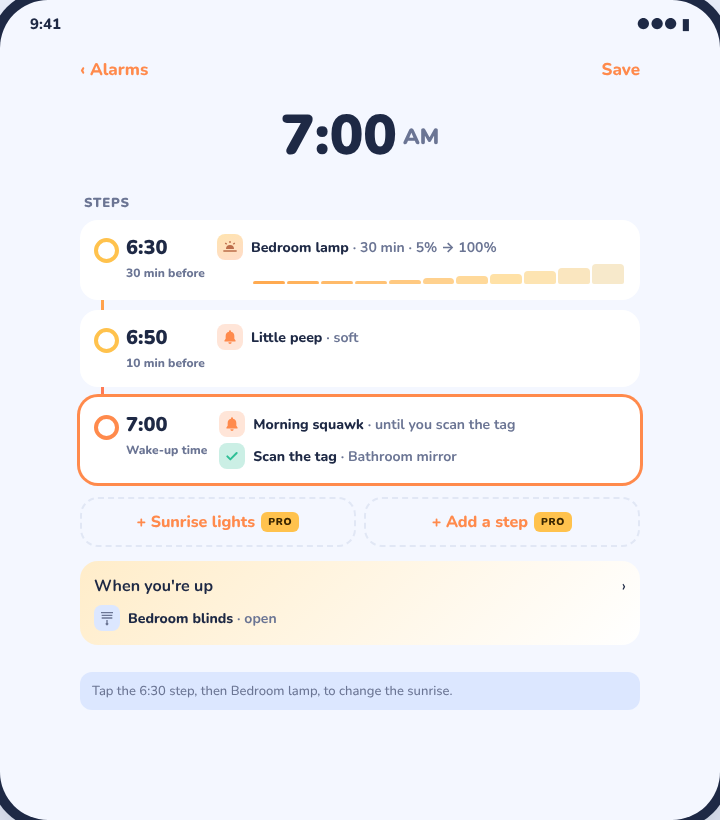
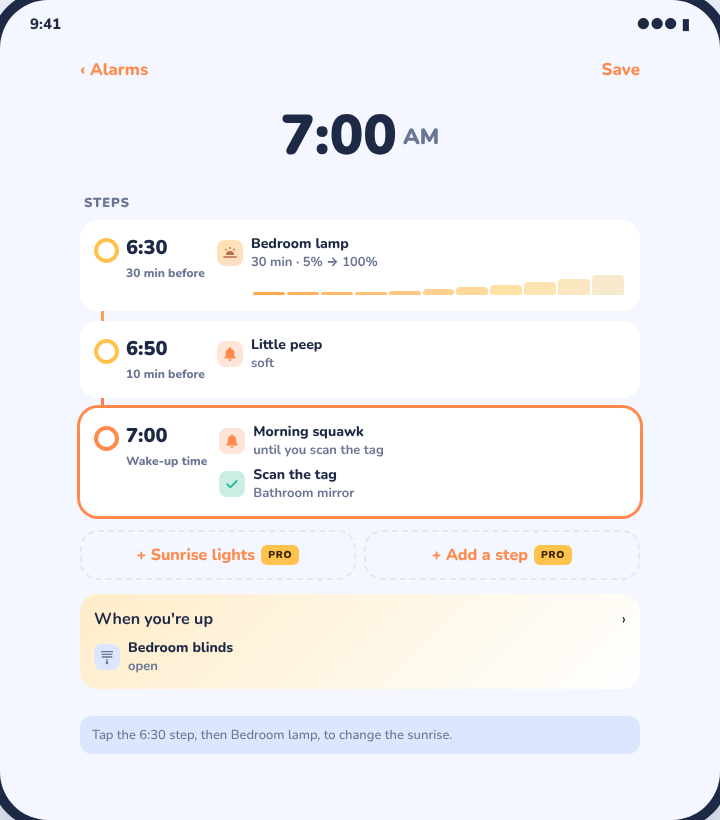
Squawk: details under names, "Add an action", no switches in Home control copy
Claude-Session: https://claude.ai/code/session_01GG78N916RzCyFKXcbiHE88

diff --git a/apps/squawk/features/sunrise-lights/design/mockups/sunrise.html b/apps/squawk/features/sunrise-lights/design/mockups/sunrise.html
@@ -239,7 +239,7 @@ body{background:var(--stage);color:var(--ink);font-family:var(--font);
     <button data-go="edit">Steps with Sunrise lights</button>
     <button data-go="sunrise">Sunrise lights</button>
     <button data-go="stepdetail">A step</button>
-    <button data-go="addthing">Add something</button>
+    <button data-go="addthing">Add an action</button>
     <small>Guided new alarm</small>
     <button data-go="g3">3 · Lights</button>
     <small>Home screen</small>
@@ -274,7 +274,7 @@ const ICON={
   check:'<svg viewBox="0 0 24 24" fill="none" stroke="currentColor" stroke-width="3" stroke-linecap="round" stroke-linejoin="round"><path d="M5 12.5l4.5 4.5L19 7.5"/></svg>'};
 const ic=k=>`<span class="ic ${k}" aria-hidden="true">${ICON[k]}</span>`;
 function srDetail(sr){return `${sr.len} min · ${sr.b0}% → ${sr.b1}%`}
-function thing(t){return `<div class="thing">${ic(t.k)}<div style="min-width:0">${t.name}${t.v?` <span>· ${t.v}</span>`:""}</div></div>`}
+function thing(t){return `<div class="thing">${ic(t.k)}<div style="min-width:0">${t.name}${t.v?`<span style="display:block;font-size:13px">${t.v}</span>`:""}</div></div>`}
 function steps(){const st=[{off:0,wake:true,things:[{k:"ring",name:"Morning squawk",v:"until you scan the tag"}]},{off:-10,things:[{k:"ring",name:"Little peep",v:"soft"}]}];
   if(S.sr.on){const ex=st.find(x=>x.off===S.sr.off);const t={k:"sunrise",name:"Bedroom lamp",v:srDetail(S.sr),sr:true};ex?ex.things.unshift(t):st.push({off:S.sr.off,things:[t]})}
   return st.sort((a,b)=>a.off-b.off)}
@@ -373,13 +373,13 @@ stepdetail:()=>{const st=steps().find(s=>s.off===sel)||steps()[0];return `${stat
   <div class="card stepper">${st.wake?`<div class="val" style="flex:1"><b>${at(0)}</b><span class="sub">Wake-up time</span></div>`:`<button data-act="off-" aria-label="Five minutes earlier">−</button><div class="val"><b>${at(st.off)}</b><span class="sub">${offLabel(st.off)}</span></div><button data-act="off+" aria-label="Five minutes later">+</button>`}</div>
   <div class="sec">What happens</div>
   <div class="card list">${st.things.map(t=>`<div class="row">${thing(t)}<span class="spacer"></span>${t.sr?`<button class="back" style="font-size:15px" data-act="change">Change</button>`:""}</div>${t.sr?rampBars(S.sr)+`<div class="rampcap"><span>starts ${at(S.sr.off)}</span><span>bright by ${at(S.sr.off+S.sr.len)}</span></div>`:""}`).join("")}</div>
-  <button class="add" data-go="addthing">+ Add something</button>
+  <button class="add" data-go="addthing">+ Add an action</button>
   ${st.things.some(t=>t.sr)?`<p class="note2">Sunrise lights start at this step's time. Moving the step moves the whole sunrise.</p>`:""}
   </div></div>`},
 
 addthing:()=>`${screens.stepdetail()}<div class="scrim" data-go="stepdetail"></div><div class="sheet" style="text-align:left;gap:0" role="dialog" aria-label="Add to this step">
   <b class="h2" style="margin-bottom:6px">Add to this step</b>
-  ${[["ring","Ring"],["sunrise","Sunrise lights"],["scene","Home scene"],["house","Home control","Lights, plugs, switches and blinds"]].map(([k,n,sub])=>`<button class="opt" ${k==="sunrise"?'data-act="addsr"':""}>${ic(k)}<b>${n}${sub?`<span class="sub" style="display:block;font-size:13px;font-weight:700">${sub}</span>`:""}</b>${k==="ring"?"":`<span class="pro">PRO</span>`}<span>›</span></button>`).join("")}</div>`,
+  ${[["ring","Ring"],["sunrise","Sunrise lights"],["scene","Home scene"],["house","Home control","Lights, plugs and blinds"]].map(([k,n,sub])=>`<button class="opt" ${k==="sunrise"?'data-act="addsr"':""}>${ic(k)}<b>${n}${sub?`<span class="sub" style="display:block;font-size:13px;font-weight:700">${sub}</span>`:""}</b>${k==="ring"?"":`<span class="pro">PRO</span>`}<span>›</span></button>`).join("")}</div>`,
 
 g3:()=>`${status()}<div class="screen">
   <div class="gtop"><button class="back">‹ Back</button><div class="gdots"><i class="done"></i><i class="done"></i><i class="on"></i><i></i><i></i></div><button class="skipall">All options</button></div>

diff --git a/apps/squawk/ios/Squawk/Screens/StepsViews.swift b/apps/squawk/ios/Squawk/Screens/StepsViews.swift
@@ -7,7 +7,7 @@ struct ThingIcon: View {
     enum Kind {
         case ring, check
         case home(HomeAction.Kind)
-        /// "Home control": lights, plugs, switches and blinds together.
+        /// "Home control": lights, plugs and blinds together.
         case devices
     }
 
@@ -62,15 +62,21 @@ struct ThingRow: View {
     var name: String
     var detail: String = ""
 
+    // The detail sits under the name, so long ones like "30 min · 5% → 100%" fit.
     var body: some View {
-        HStack(alignment: .firstTextBaseline, spacing: 8) {
+        HStack(alignment: .center, spacing: 8) {
             ThingIcon(kind: kind)
-                .alignmentGuide(.firstTextBaseline) { $0[VerticalAlignment.center] + 5 }
-            Text("\(Text(name).bold())\(Text(detail.isEmpty ? "" : " · \(detail)").foregroundStyle(Theme.muted))")
-                .font(.system(.subheadline, design: .rounded))
-                .fixedSize(horizontal: false, vertical: true)
+            VStack(alignment: .leading, spacing: 1) {
+                Text(name).bold()
+                if !detail.isEmpty {
+                    Text(detail).foregroundStyle(Theme.muted)
+                }
+            }
+            .font(.system(.subheadline, design: .rounded))
+            .fixedSize(horizontal: false, vertical: true)
             Spacer(minLength: 0)
         }
+        .accessibilityElement(children: .combine)
     }
 }
 

diff --git a/apps/squawk/ios/Squawk/Screens/StepsEditing.swift b/apps/squawk/ios/Squawk/Screens/StepsEditing.swift
@@ -226,7 +226,7 @@ struct StepDetailView: View {
                 }
 
                 Button { adding = true } label: {
-                    Text("+ Add something")
+                    Text("+ Add an action")
                         .font(Theme.label)
                         .foregroundStyle(Theme.accent)
                         .frame(maxWidth: .infinity, minHeight: 50)
@@ -339,7 +339,7 @@ struct AddThingSheet: View {
                 row(.home(.sunrise), HomeAction.Kind.sunrise.title, locked: locked)
             }
             row(.home(.scene), HomeAction.Kind.scene.title, locked: locked)
-            row(.devices, "Home control", subtitle: "Lights, plugs, switches and blinds", locked: locked)
+            row(.devices, "Home control", subtitle: "Lights, plugs and blinds", locked: locked)
         }
         .padding(22)
         .presentationDetents([.medium])
@@ -411,7 +411,7 @@ struct UpActionsView: View {
                     }
                 }
                 Button { adding = true } label: {
-                    Text("+ Add something")
+                    Text("+ Add an action")
                         .font(Theme.label)
                         .foregroundStyle(Theme.accent)
                         .frame(maxWidth: .infinity, minHeight: 50)

diff --git a/apps/squawk/ios/SquawkKit/Sources/SquawkKit/Steps.swift b/apps/squawk/ios/SquawkKit/Sources/SquawkKit/Steps.swift
@@ -17,7 +17,7 @@ public struct HomeAction: Codable, Identifiable, Hashable, Sendable {
         /// The kind of device it controls: sunrise lights use lights.
         public var deviceKind: Kind { self == .sunrise ? .light : self }
 
-        /// "Lights", as in the Add something sheet.
+        /// "Lights", as in the Add an action sheet.
         public var title: String {
             switch self {
             case .light: "Lights"

diff --git a/apps/squawk/ios/Squawk/Screens/NewAlarmFlow.swift b/apps/squawk/ios/Squawk/Screens/NewAlarmFlow.swift
@@ -227,7 +227,7 @@ struct NewAlarmFlow: View {
                     }
                 }
             }
-            ChoiceCard(title: "+ Add something", subtitle: "Open the blinds, start the coffee, or run a scene.", selected: false) {
+            ChoiceCard(title: "+ Add an action", subtitle: "Open the blinds, start the coffee, or run a scene.", selected: false) {
                 addingUp = true
             }
         }

diff --git a/apps/squawk/features/sunrise-lights/FEATURE.md b/apps/squawk/features/sunrise-lights/FEATURE.md
@@ -108,7 +108,7 @@ icons; one new icon and one new small component.
 |---|---|---|---|
 | Edit alarm | "+ Sunrise" adds three or four light step cards | "+ Sunrise lights" adds one card with a rising bar strip | [before](../steps/design/screens/sunrise.png) · [after](design/screens/edit.png) |
 | A step | Light rows with Change | Sunrise lights row with Change, its bar strip and "starts 6:30 · bright by 7:00" | [stepdetail](design/screens/stepdetail.png) |
-| Add something | Ring, Lights, Scene, Plug or switch, Blinds | Ring, Sunrise lights, Home scene, and one "Home control" row for lights, plugs, switches and blinds. Picking any device shows the settings for that kind (Gabriel, 2 Nov 2026) | [addthing](design/screens/addthing.png) |
+| Add something | Ring, Lights, Scene, Plug or switch, Blinds | Ring, Sunrise lights, Home scene, and one "Home control" row for lights, plugs and blinds. Picking any device shows the settings for that kind (Gabriel, 2 Nov 2026) | [addthing](design/screens/addthing.png) |
 | Guide, lights question | "Sunrise" with three time chips | "Sunrise lights" with the bar strip and start/end times | [g3](design/screens/g3.png) |
 | Home | Chips show each light step | One sunrise chip at its start time | [home](design/screens/home.png) |
 
